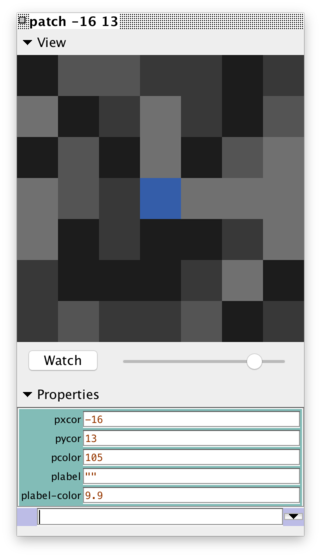
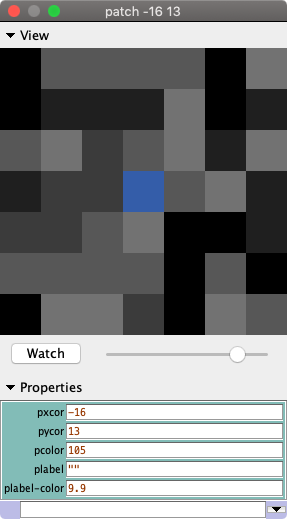
Let inspector windows be normal `JDialog` components
* Use JDialog for inspectors, remove WindowDragger.java, WindowResizer.scala
* Let app window be on top of inspector window
* update documentation for new inspector/monitor windows
* closes #1859, closes #857, closes  #1889
* remove unneeded AgentMonitorWindow code
* Update screenshots, no drop shadows.

diff --git a/netlogo-gui/src/main/window/ColorDialog.java b/netlogo-gui/src/main/window/ColorDialog.java
@@ -573,8 +573,6 @@ public strictfp class ColorDialog extends JDialog implements ActionListener,
 
   // The following callback are not used for anything
   // but the Interfaces demands them
-  public void mouseDragged(MouseEvent e) {
-  }
 
   public void mouseClicked(MouseEvent e) {
   }
